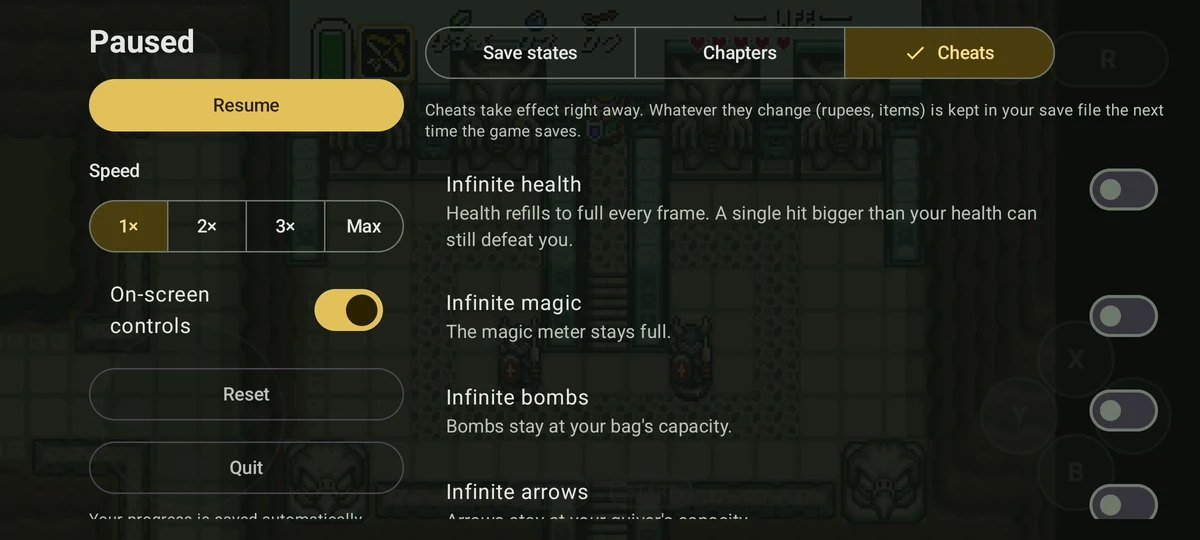
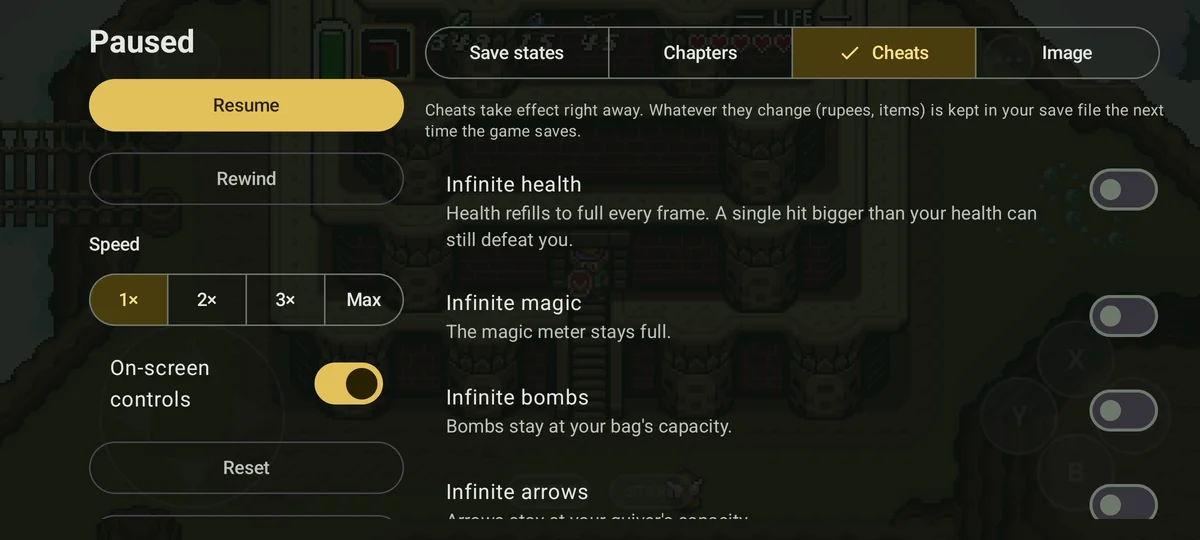
Fresh screenshots; "Just now" for saves under a minute old
The home screen, in-game menu and cheats screenshots show the new home
and the Image tab, taken from a release build. Save times under a minute
read "Just now" instead of "0 minutes ago", on the home screen, in the
in-game menu and in Manage saves (one shared helper).

diff --git a/app/src/main/java/io/github/doutorraposo/moonpearl/SavesActivity.kt b/app/src/main/java/io/github/doutorraposo/moonpearl/SavesActivity.kt
@@ -3,7 +3,6 @@ package io.github.doutorraposo.moonpearl
 import android.content.Context
 import android.net.Uri
 import android.os.Bundle
-import android.text.format.DateUtils
 import androidx.activity.ComponentActivity
 import androidx.activity.SystemBarStyle
 import androidx.activity.compose.rememberLauncherForActivityResult
@@ -216,7 +215,7 @@ private fun SavesScreen(manager: SaveManager, states: SaveStates) {
                                 style = MaterialTheme.typography.bodyLarge,
                             )
                             Text(
-                                slot.modified?.let { DateUtils.getRelativeTimeSpanString(it).toString() }.orEmpty(),
+                                slot.modified?.let { savedAgo(it) }.orEmpty(),
                                 style = MaterialTheme.typography.bodySmall,
                                 color = MaterialTheme.colorScheme.onSurfaceVariant,
                             )

diff --git a/app/src/main/java/io/github/doutorraposo/moonpearl/LauncherActivity.kt b/app/src/main/java/io/github/doutorraposo/moonpearl/LauncherActivity.kt
@@ -3,7 +3,6 @@ package io.github.doutorraposo.moonpearl
 import android.content.Context
 import android.content.Intent
 import android.os.Bundle
-import android.text.format.DateUtils
 import androidx.activity.ComponentActivity
 import androidx.activity.SystemBarStyle
 import androidx.activity.compose.setContent
@@ -284,7 +283,7 @@ private fun ContinueCard(resume: SaveStates.Slot?, modifier: Modifier, onClick: 
                 )
                 resume?.modified?.let { time ->
                     Text(
-                        DateUtils.getRelativeTimeSpanString(time, System.currentTimeMillis(), DateUtils.MINUTE_IN_MILLIS).toString(),
+                        savedAgo(time),
                         style = MaterialTheme.typography.bodyMedium,
                         color = Color.White.copy(alpha = 0.8f),
                     )

diff --git a/app/src/main/java/io/github/doutorraposo/moonpearl/GameMenuActivity.kt b/app/src/main/java/io/github/doutorraposo/moonpearl/GameMenuActivity.kt
@@ -3,7 +3,6 @@ package io.github.doutorraposo.moonpearl
 import android.content.Context
 import android.content.Intent
 import android.os.Bundle
-import android.text.format.DateUtils
 import android.view.InputDevice
 import android.view.KeyEvent
 import android.view.MotionEvent
@@ -371,7 +370,7 @@ private fun SlotCard(slot: SaveStates.Slot, onSave: () -> Unit, onLoad: () -> Un
                 style = MaterialTheme.typography.titleSmall,
             )
             Text(
-                slot.modified?.let { DateUtils.getRelativeTimeSpanString(it).toString() } ?: "—",
+                slot.modified?.let { savedAgo(it) } ?: "—",
                 style = MaterialTheme.typography.bodySmall,
                 color = MaterialTheme.colorScheme.onSurfaceVariant,
                 maxLines = 1,

diff --git a/app/src/main/java/io/github/doutorraposo/moonpearl/Ui.kt b/app/src/main/java/io/github/doutorraposo/moonpearl/Ui.kt
@@ -152,3 +152,11 @@ val Gear: ImageVector = ImageVector.Builder("Gear", 24.dp, 24.dp, 24f, 24f).appl
         fill = androidx.compose.ui.graphics.SolidColor(androidx.compose.ui.graphics.Color.White),
     )
 }.build()
+
+/** "Just now", or how long ago (in minutes or more) a save was written. */
+@Composable
+fun savedAgo(time: Long): String {
+    val now = System.currentTimeMillis()
+    return if (now - time < android.text.format.DateUtils.MINUTE_IN_MILLIS) stringResource(R.string.launcher_just_now)
+    else android.text.format.DateUtils.getRelativeTimeSpanString(time, now, android.text.format.DateUtils.MINUTE_IN_MILLIS).toString()
+}

diff --git a/README.md b/README.md
@@ -10,7 +10,7 @@ own ROM; the app sets everything up on the device.
 </p>
 
 <p align="center">
-  <img src="docs/screenshots/launcher.webp" alt="Launcher" width="200">
+  <img src="docs/screenshots/launcher.webp" alt="Home screen" width="200">
   <img src="docs/screenshots/saves.webp" alt="Manage saves" width="200">
 </p>
 
